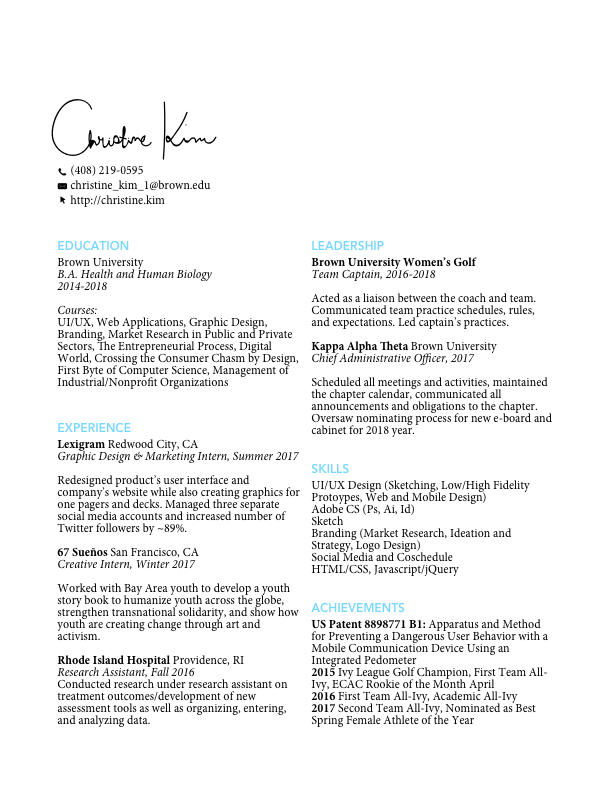
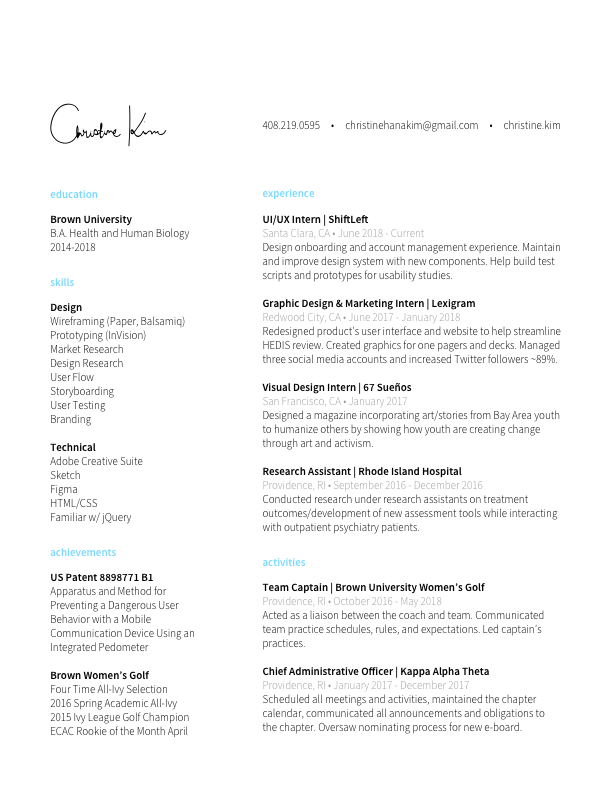
updated resume

diff --git a/style.css b/style.css
@@ -143,7 +143,7 @@ h5 {
 }
 
 /*----------DESIGN X HEALTH----------*/
-.col-sm.portfolio_piece h1 {
+.col-sm.portfolio_piece h1, .col-sm.resume_img h1 {
     font-size: 30px;
     font-weight: 700;
     text-align: center;
@@ -151,7 +151,7 @@ h5 {
     margin-bottom: 2%;
 }
 
-.col-sm.portfolio_piece p {
+.col-sm.portfolio_piece p  {
     width: 55vw;
     margin: 0 auto;
     color: #999999;
@@ -187,6 +187,20 @@ h5 {
 
 .col-sm.nav_item img {
     width: 35vw;
+}
+
+col-sm.resume_img p {
+    width: 50vw;
+    margin: 0 auto;
+}
+
+.col-sm.resume_img p {
+    width: 40vw;
+    margin: 0 auto;
+}
+
+.col-sm.resume_img img {
+    width: 40vw;
 }
 
 /*----------CONTACT----------*/

diff --git a/resume.html b/resume.html
@@ -44,7 +44,7 @@
             </div>
     
     <!--MY WORKS-->
-            <div class="col-sm portfolio_piece">
+            <div class="col-sm resume_img">
                 <h1>RESUME</h1>
                 <p><img src="images/resume.png"></p>
             </div>
